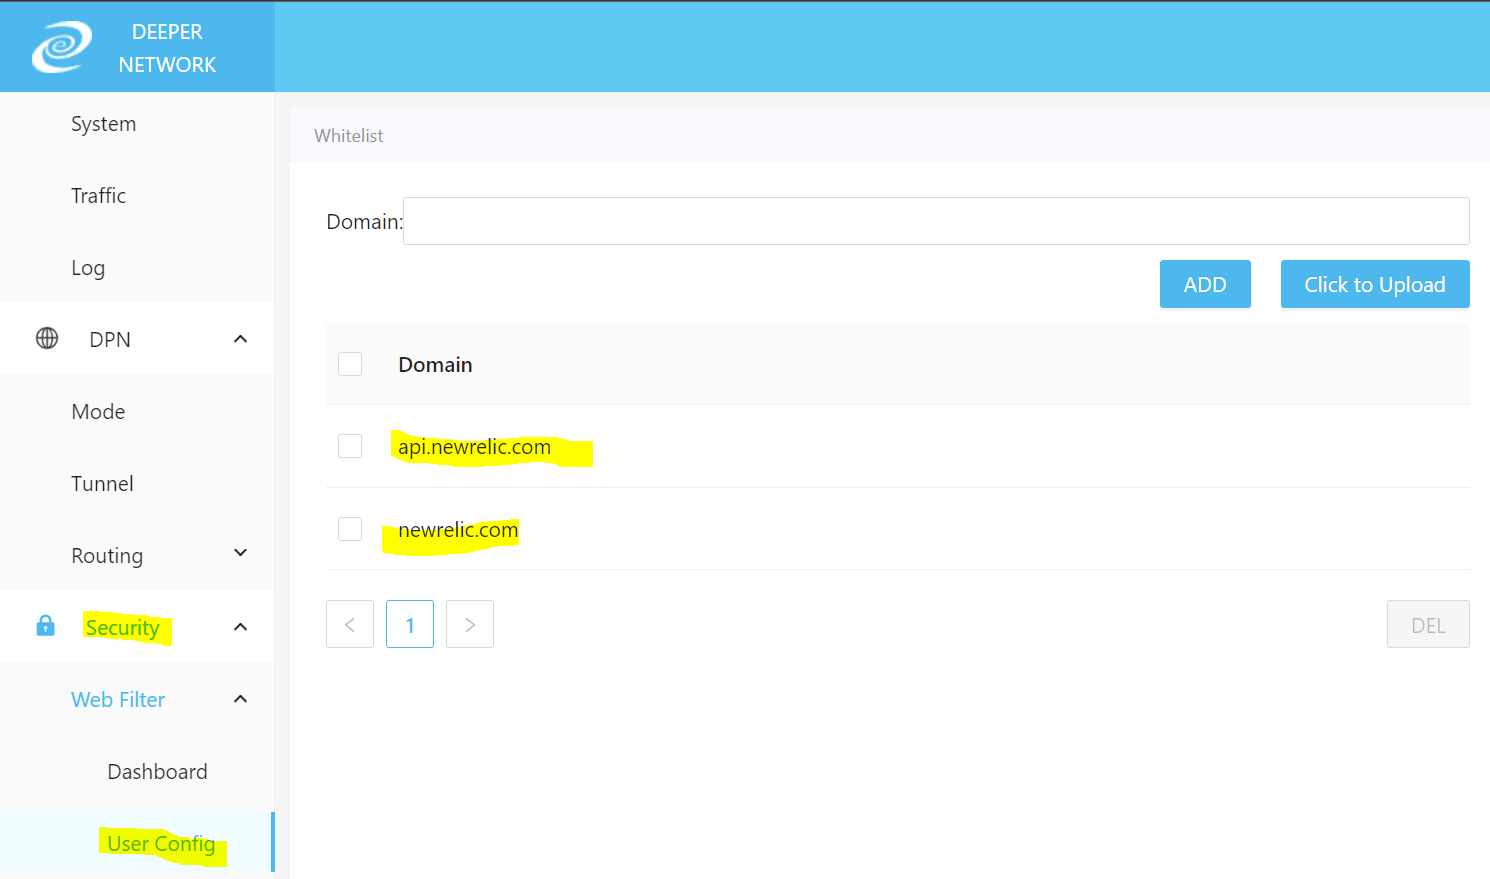
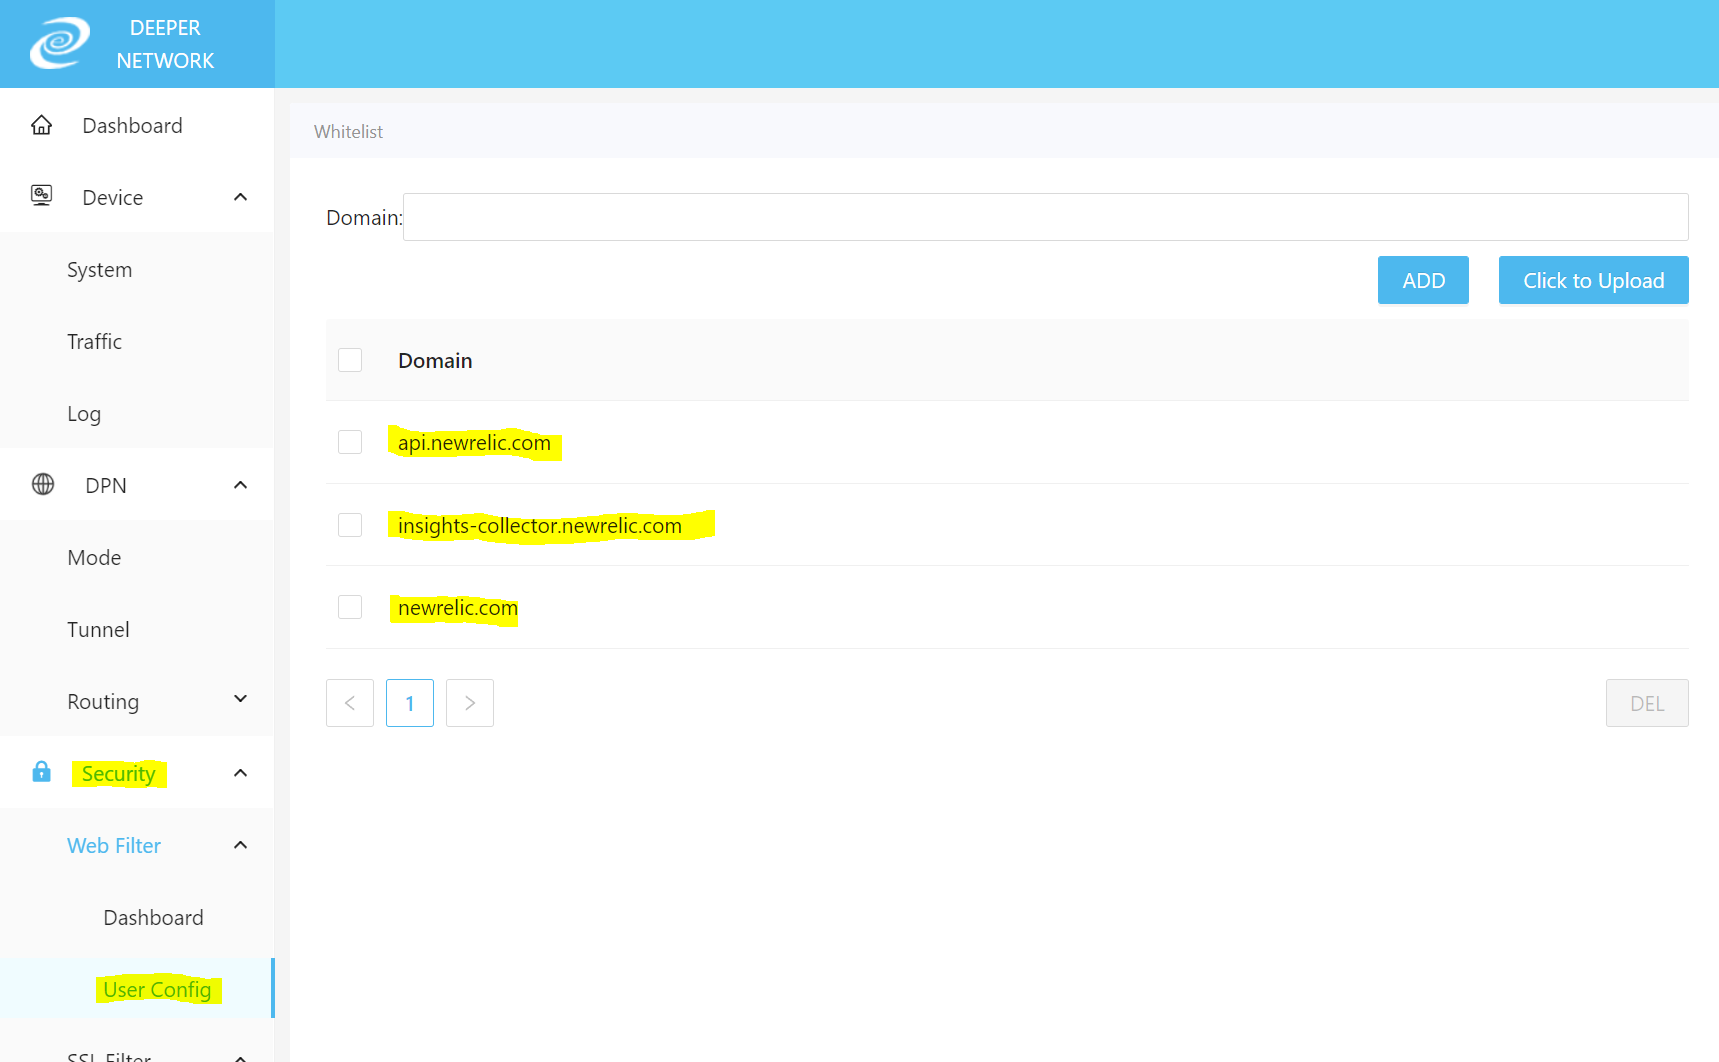
feat: update docs

diff --git a/newrelic/2.infra-install.md b/newrelic/2.infra-install.md
@@ -11,8 +11,8 @@ The New Relic Infrastructure Agent and Deeper CLI will need to be installed on a
 - Click `Copy command` in the top right of the command and paste into your shell/console/command prompt to run.
 
 ![infra install](../images/nr-infra-install.png)
-- You will be prompted during installation, follow them through.
-  - Golden signal alerts will be the first option, this will setup some default alerts for your host. This is optional however I suggest doing this.
+- You may be prompted during installation, follow them through.
+  - If prompted, Golden signal alerts will be the first option, this will setup some default alerts for your host. This is optional however I suggest doing this.
   - If you selected yes, the next option will ask if you would like to be notified by email. Hit enter to select Yes.
 - If completed successfully, you will have something that looks like the below output which includes a link to your entity (host). You can follow the link to see a prebuilt dashboard of your hosts performance.
 

diff --git a/newrelic/1.signup.md b/newrelic/1.signup.md
@@ -1,7 +1,12 @@
 # [New Relic - Sign up to the free edition](https://newrelic.com/signup)
 
 Prerequisite: 
-  - Whitelist `newrelic.com` and `api.newrelic.com` in your Deeper Connect [Atmos web ui](http://11.22.33.44/webFilterConfig). By default your Deeper Connect incorrectly blocks outbound traffic to New Relic's data ingest APIs. 
+  - Whitelist the below addresses in your Deeper Connect [Atmos web ui](http://11.22.33.44/webFilterConfig). By default your Deeper Connect incorrectly blocks outbound traffic to New Relic's data ingest APIs so we need to whitelist them. 
+      - `newrelic.com`  
+      - `api.newrelic.com` 
+      - `insights-collector.newrelic.com` 
+    
+
 
 ![infra install](../images/nr-whitelist.png)
 
